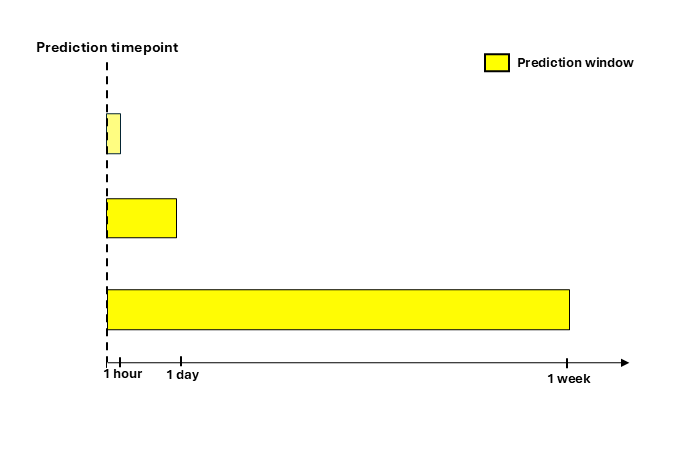
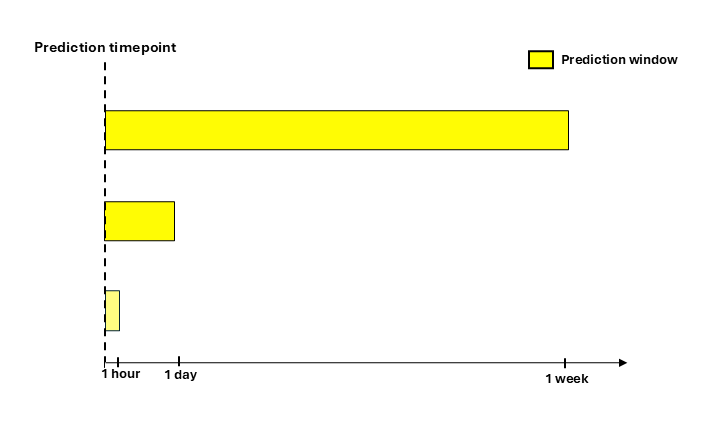
lag slides

diff --git a/dissertation_defense_2026_0409.html b/dissertation_defense_2026_0409.html
@@ -526,9 +526,9 @@ Kendra Wyant
 <li><p>Evaluate and interpret models that predict <span style="color: #c5050c;"><strong>immediate risk</strong></span> of a lapse back to opioid use using 1x daily EMA and geolocation sensing</p></li>
 </ol>
 <aside class="notes">
-<p>To achieve this goal, we used two clinical samples of participants in early recovery from alcohol (Studies 1–2) and opioid use (Study 3) disorders with reported goals of abstinence.</p>
-<p>In Study 1, we evaluate and interpret three separate models that provide probabilities of an immediate lapse back to alcohol use with increasing temporal precision: lapses in the next week, next day, and next hour, using features engineered from a 4X daily EMA. These immediate risk models can provide personalized support recommendations to address risks for possible lapses in that moment.</p>
-<p>In Study 2, we evaluate and interpret models that use the same 4× daily EMA features to predict alcohol lapses occurring within a 24-hour window up to two weeks into the future. These models with lagged prediction windows provide insight into lapse risk with the added benefit of advanced warning, giving individuals extra time to make behavioral, social, or lifestyle changes.</p>
+<p>To achieve this goal, we used two clinical samples of participants in early recovery from alcohol use disorder (Studies 1–2) and opioid use disorder (Study 3) with reported goals of abstinence.</p>
+<p>In Study 1, we evaluated and interpreted three separate models that provided probabilities of an immediate lapse back to alcohol use with increasing temporal precision: lapses in the next week, next day, and next hour, using features engineered from a 4X daily EMA. These immediate risk models can provide personalized support recommendations to address risks for possible lapses in that moment.</p>
+<p>In Study 2, we evaluated and interpreted models that use the same 4× daily EMA features to predict alcohol lapses occurring within a 24-hour window up to two weeks into the future. These models with lagged prediction windows provide insight into lapse risk with the added benefit of advanced warning, giving individuals extra time to make behavioral, social, or lifestyle changes.</p>
 <p>In Study 3, we extended lapse prediction to opioid use using a national sample of participants with opioid use disorder. This allowed us to evaluate whether lapse prediction algorithms generalize beyond alcohol to substances where use is illegal and lapses may be underreported. We also supplemented EMA with geolocation to assess an alternative less budensome sensing method.</p>
 <p>Across all three studies we evaluated the interpretability and fairness of model outputs.</p>
 <style type="text/css">
@@ -716,6 +716,26 @@ Kendra Wyant
           display:block!important;
       }</style></aside>
 </section>
+<section id="immediate-models" class="slide level2">
+<h2>Immediate Models</h2>
+<p><img data-src="https://github.com/KendraPaquette/presentations/blob/main/images/immediate.png?raw=true" class="absolute" style="z-index:1;top: 100px; left: 150px; height: 80%; "></p>
+<aside class="notes">
+<p>We fit three immediate models that differed in the width of the prediction window.</p>
+<p>Prediction window widths were 1 week, 1 day, and 1 hour (shown in yellow).</p>
+<p>the vertical dashed line represents the prediction time point (so when we are making the prediction).</p>
+<p>So from top to bottom we are predicting whether at a specific timepoint someone will lapse back to alcohol use in the next week, next day, or next hour.</p>
+<style type="text/css">
+        span.MJX_Assistive_MathML {
+          position:absolute!important;
+          clip: rect(1px, 1px, 1px, 1px);
+          padding: 1px 0 0 0!important;
+          border: 0!important;
+          height: 1px!important;
+          width: 1px!important;
+          overflow: hidden!important;
+          display:block!important;
+      }</style></aside>
+</section>
 <section id="performance" class="slide level2">
 <h2>Performance</h2>
 <div class="cell" data-layout-align="center">
@@ -728,7 +748,7 @@ Kendra Wyant
 </div>
 </div>
 <aside class="notes">
-<p>We used area under the roc curve to evaluate model performance. auroc is the probability that a randomly selected positive case will be assigned a higher probability compared to a randomly selected negative case. Scores can range from .5, Chance performance - 1, perfect performance.</p>
+<p>We used area under the roc curve (auROC) to evaluate model performance. auroc is the probability that a randomly selected positive case will be assigned a higher probability compared to a randomly selected negative case. Scores can range from .5, Chance performance - 1, perfect performance.</p>
 <style type="text/css">
         span.MJX_Assistive_MathML {
           position:absolute!important;
@@ -753,10 +773,10 @@ Kendra Wyant
 </div>
 </div>
 <aside class="notes">
-<p>here, from left to right, are the median aurocs and credible intervals for predicting lapses in the next week, day, and hour. Median posterior probabilities ranged from .90, to .93.</p>
-<p>We can predict hour by hour probabilities of lapse at varying levels of temporal precision with excellent performance</p>
-<p>Hour model performed better than Day and Week model</p>
-<p>Day model performed better than Week model</p>
+<p>here, from left to right, are the median aurocs and credible intervals for predicting lapses in the next week, day, and hour. Median auROCs ranged from .90, to .93.</p>
+<p>Our Hour model the far right performed better than both the Day and Week model</p>
+<p>And the Day model performed better than Week model</p>
+<p>Overall these models are doing very well as auROCs above .90 are typically considered to be excellent performance.</p>
 <style type="text/css">
         span.MJX_Assistive_MathML {
           position:absolute!important;
@@ -781,8 +801,9 @@ Kendra Wyant
 </div>
 </div>
 <aside class="notes">
-<p>Now that we established that we can predict lapse at different levels of precision we made a choice to move forward with only the day level model.</p>
+<p>We established that we can predict lapse at different levels of precision.</p>
 <p>This level of precision is ideal for our goal usage of the model - conveying risk information to patients in the context of a recovery monitoring support system. A week may not be precise enough and using the hour model would require us to send risk information out every hour.</p>
+<p>Moving forward I am going to be only considering models with a 24-hour or 1 day prediction window.</p>
 <style type="text/css">
         span.MJX_Assistive_MathML {
           position:absolute!important;
@@ -1017,7 +1038,7 @@ Kendra Wyant
 <aside class="notes">
 <p>I just want to be clear about what I mean when I say lagged predictions. So in study one I was manipulating the prediction window width that is will a lapse occur in the next week, next day, or hour.</p>
 <p>In this study my prediction window widths are all 24 hours (shown in yellow)</p>
-<p>the vertical dashed line represents the prediction time point (so when we are making the prediction).</p>
+<p>like before the vertical dashed line represents the prediction time point</p>
 <style type="text/css">
         span.MJX_Assistive_MathML {
           position:absolute!important;
